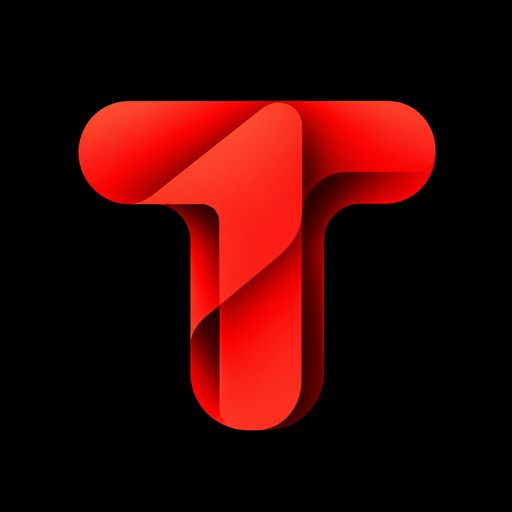
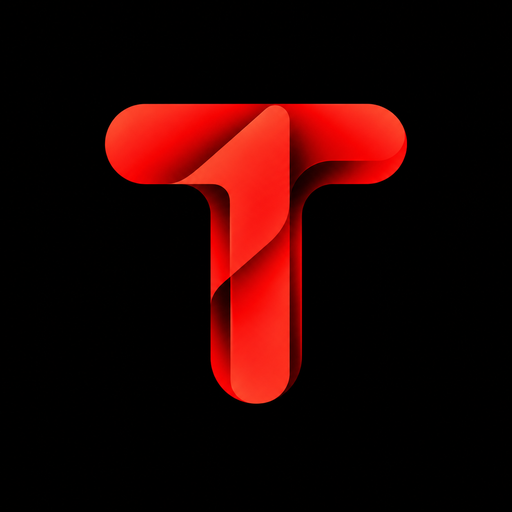
fix: 앱 로고 이미지 재교체(비율 조정된 버전) (#765)
icon-192.png / icon-512.png / apple-touch-icon.png와
icons/splash/*.png(기기별 10종)를 새로 받은 로고 원본으로 다시 생성.

Claude-Session: https://claude.ai/code/session_01TNoGCWRQtXcfdnQwZ6HvCX

Changed region(s): [[0.125, 0.1875, 0.875, 0.8438]]

diff --git a/index.html b/index.html
@@ -12073,7 +12073,7 @@ const settingsHeaderName = document.getElementById("settingsHeaderName");
 const settingsHeaderSub = document.getElementById("settingsHeaderSub");
 
 /* ✅ 앱 버전 정의 — 의미 있는 수정/배포마다 올림(설정 화면에서 "최신 버전 받았는지" 확인용) */
-const APP_VERSION = "0.9.301";
+const APP_VERSION = "0.9.302";
 const appVersionDisplay = document.getElementById("appVersionDisplay");
 if (appVersionDisplay) {
   appVersionDisplay.textContent = APP_VERSION;
